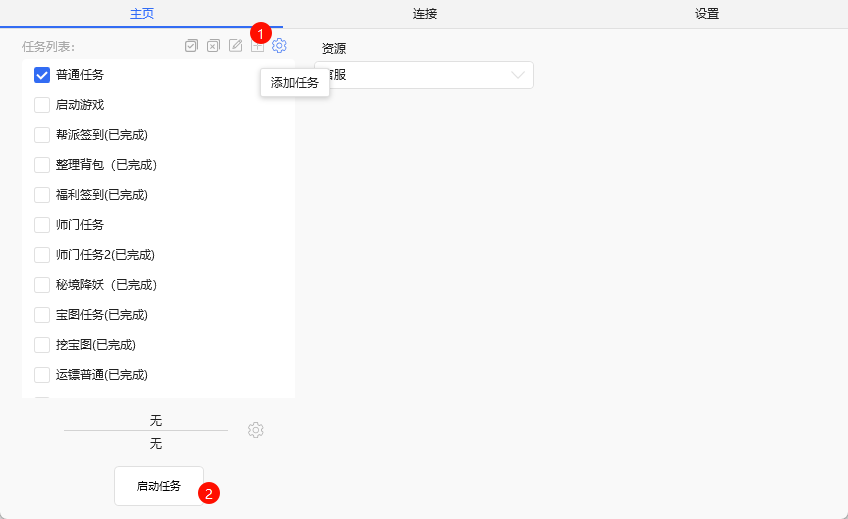
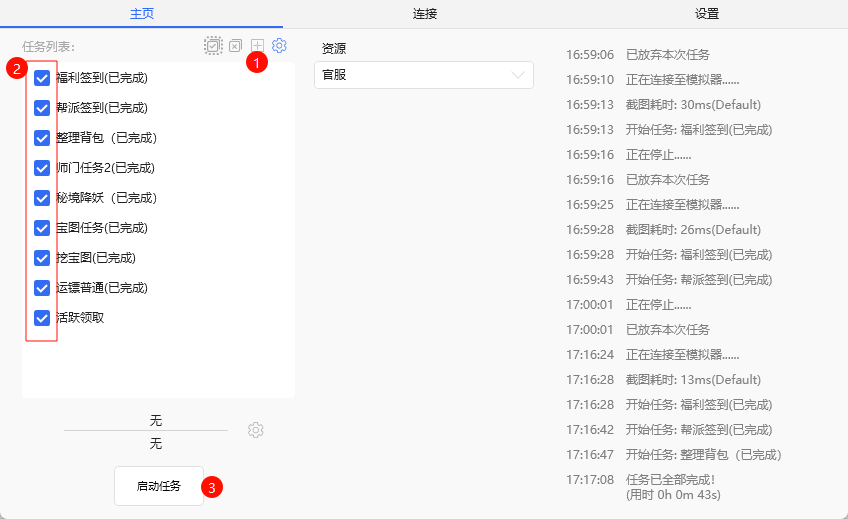
1.修复功能，2.完善readme

diff --git a/README.md b/README.md
@@ -1,28 +1,32 @@
 # MAA_MHXY_MG
 
-简介：[MaaFramework](https://github.com/MaaXYZ/MaaFramework)梦幻西游手游助手
+基于全新架构的 mhxy 小助手。图像技术 + 模拟控制，解放双手！
+由 [MaaFramework](https://github.com/MaaXYZ/MaaFramework) 强力驱动！
+
 
 ## 功能介绍
 
 ### 已完成
-    1.日常签到
-    2.帮派签到
-    3.师门任务
-    4.秘境任务
-    5.宝图任务（获得）
-    5.宝图任务（挖）
-    6.运镖任务
-    7.整理背包
-    8.副本任务（69）
+    
+        1.日常签到
+        2.帮派签到
+        3.师门任务
+        4.秘境任务
+        5.宝图任务（获得）
+        5.宝图任务（挖）
+        6.运镖任务
+        7.整理背包
+        8.副本任务（69）
     
 ### 待完成
     1.抓鬼任务
     2.其他任务
 
 ## 使用说明
+    
+1.[窗口运行教程](./docs/窗口运行教程.md)
 
-    1.[窗口运行教程](./docs/窗口运行教程.md)
-    2.[cmd运行教程](./docs/CMD运行教程.md)
+2.[cmd运行教程](./docs/CMD运行教程.md)
 
 ## 鸣谢
 
@@ -33,67 +37,9 @@
 <!-- <a href="https://github.com/MaaXYZ/M9A/graphs/contributors">
   <img src="https://contrib.rocks/image?repo=MaaXYZ/M9A&max=1000" />
 </a> -->
+## 免责声明
 
-# 如需二次开发（开发说明）
+本项目仅供学习参考，作者不
 
-    请参考 **[MaaPracticeBoilerplate](https://github.com/MaaXYZ/MaaPracticeBoilerplate)** ,对本项目进行完善
-
-# MaaPracticeBoilerplate
-
-MaaFramework 实践模板。
-
-## 如何开发
-
-0. 使用右上角 `Use this template` - `Create a new repository` 来基于本模板创建您自己的项目。
-
-1. 完整克隆本项目及子项目（地址请修改为您基于本模板创建的新项目地址）。
-
-    ```bash
-    git clone --recursive https://github.com/MaaXYZ/MaaPracticeBoilerplate.git
-    ```
-
-    **请注意，一定要完整克隆子项目，不要漏了 `--recursive`**
-
-2. 下载 MaaFramework 的 [Release 包](https://github.com/MaaXYZ/MaaFramework/releases)，解压到 `deps` 文件夹中。
-
-3. 配置资源文件。
-
-    ```bash
-    python ./configure.py
-    ```
-
-4. 按需求修改 `assets` 中的资源文件，请参考 MaaFramework 相关文档。
-
-    - 可使用 [MaaDebugger](https://github.com/MaaXYZ/MaaDebugger) 进行调试；
-    - 也可以在本地安装后测试：
-
-        1. 执行安装脚本
-           
-      ```bash
-      python ./install.py
-      ```
-      
-        2. 运行 `install/MaaPiCli.exe`
-
-5. 完成开发工作后，上传您的代码并发布版本。
-
-    ```bash
-    # 配置 git 信息（仅第一次需要，后续不用再配置）
-    git config user.name "您的 GitHub 昵称"
-    git config user.email "您的 GitHub 邮箱"
-    
-    # 提交修改
-    git add .
-    git commit -m "XX 新功能"
-    git push origin HEAD -u
-    ```
-
-6. 发版您的版本
-
-    需要先修改仓库设置 `Settings` - `Actions` - `General` - `Read and write permissions` - `Save`
-    
-    ```bash
-    # CI 检测到 tag 会自动进行发版
-    git tag v1.0.0
-    git push origin v1.0.0
-    ```
+## 如需二次开发（开发说明）
+[二次开发](./docs/二次开发.md)

diff --git a/docs/二次开发.md b/docs/二次开发.md
@@ -1,0 +1,63 @@
+# 如需二次开发（开发说明）
+
+请参考[MaaPracticeBoilerplate](https://github.com/MaaXYZ/MaaPracticeBoilerplate),对本项目进行完善
+
+# MaaPracticeBoilerplate
+
+MaaFramework 实践模板。
+
+## 如何开发
+
+0. 使用右上角 `Use this template` - `Create a new repository` 来基于本模板创建您自己的项目。
+
+1. 完整克隆本项目及子项目（地址请修改为您基于本模板创建的新项目地址）。
+
+    ```bash
+    git clone --recursive https://github.com/MaaXYZ/MaaPracticeBoilerplate.git
+    ```
+
+    **请注意，一定要完整克隆子项目，不要漏了 `--recursive`**
+
+2. 下载 MaaFramework 的 [Release 包](https://github.com/MaaXYZ/MaaFramework/releases)，解压到 `deps` 文件夹中。
+
+3. 配置资源文件。
+
+    ```bash
+    python ./configure.py
+    ```
+
+4. 按需求修改 `assets` 中的资源文件，请参考 MaaFramework 相关文档。
+
+    - 可使用 [MaaDebugger](https://github.com/MaaXYZ/MaaDebugger) 进行调试；
+    - 也可以在本地安装后测试：
+
+        1. 执行安装脚本
+           
+      ```bash
+      python ./install.py
+      ```
+      
+        2. 运行 `install/MaaPiCli.exe`
+
+5. 完成开发工作后，上传您的代码并发布版本。
+
+    ```bash
+    # 配置 git 信息（仅第一次需要，后续不用再配置）
+    git config user.name "您的 GitHub 昵称"
+    git config user.email "您的 GitHub 邮箱"
+    
+    # 提交修改
+    git add .
+    git commit -m "XX 新功能"
+    git push origin HEAD -u
+    ```
+
+6. 发版您的版本
+
+    需要先修改仓库设置 `Settings` - `Actions` - `General` - `Read and write permissions` - `Save`
+    
+    ```bash
+    # CI 检测到 tag 会自动进行发版
+    git tag v1.0.0
+    git push origin v1.0.0
+    ```

diff --git a/docs/窗口运行教程.md b/docs/窗口运行教程.md
@@ -1,15 +1,20 @@
 ## 下载打包的程序
 
-1.下载对应系统（Android、win、macos）版本的X86，arm
-2.解压后运行 `MFAWPF.exe` 即可
+1.下载对应系统（Android、win、macos）版本的X86，arm\
+2.解压后运行 `MFAWPF.exe` 即可\
 3.MUMU模拟器12，1280*720 240dpi
+### 设置更改
+调整触控模式为maatouch
+![调整触控模式](image-3.png)
 
+### 测试
 建议第一次使用本程序运行前，首先单独运行 “福利签到” 测试，如无法运行请试运行[cmd教程](./CMD运行教程.md)
-
+### 启动MFAWPF
+MFAWPF主界面
 ![MFAWPF主界面](./MFAWPF-1.png)
-
+### 刷新并选择模拟器
 ![刷新并选择模拟器](image.png)
 
-选择任务，或右键任务删除，启动
+### 1.选择任务，2.选择要启动的任务，3.启动。4.右键删除
 ![选择任务并启动](image-1.png)
 

diff --git a/docs/CMD运行教程.md b/docs/CMD运行教程.md
@@ -1,7 +1,7 @@
 ## 下载打包的程序
 
-1.下载对应系统（Android、win、macos）版本的X86，arm
-2.解压后运行 `MaaPiCli.exe` 即可
+1.下载对应系统（Android、win、macos）版本的X86，arm\
+2.解压后运行 `MaaPiCli.exe` 即可\
 3.MUMU模拟器12，1280*720 240dpi
 
 ## 使用方法
@@ -128,3 +128,6 @@ Please input [1-7]:
     5. 删除任务
     6. 开始执行任务，在这之后就会自动开始操控。
     7. 退出
+
+# 演示示例
+![alt text](image-2.png)
